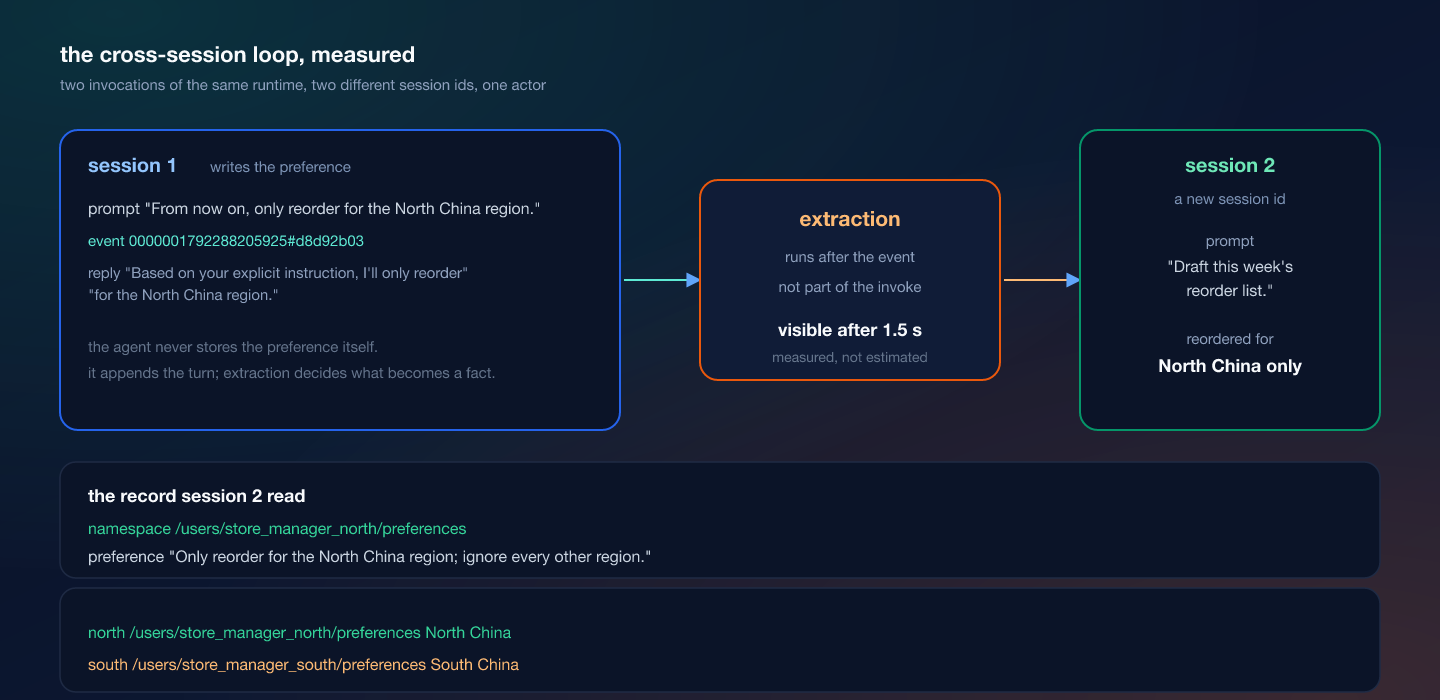
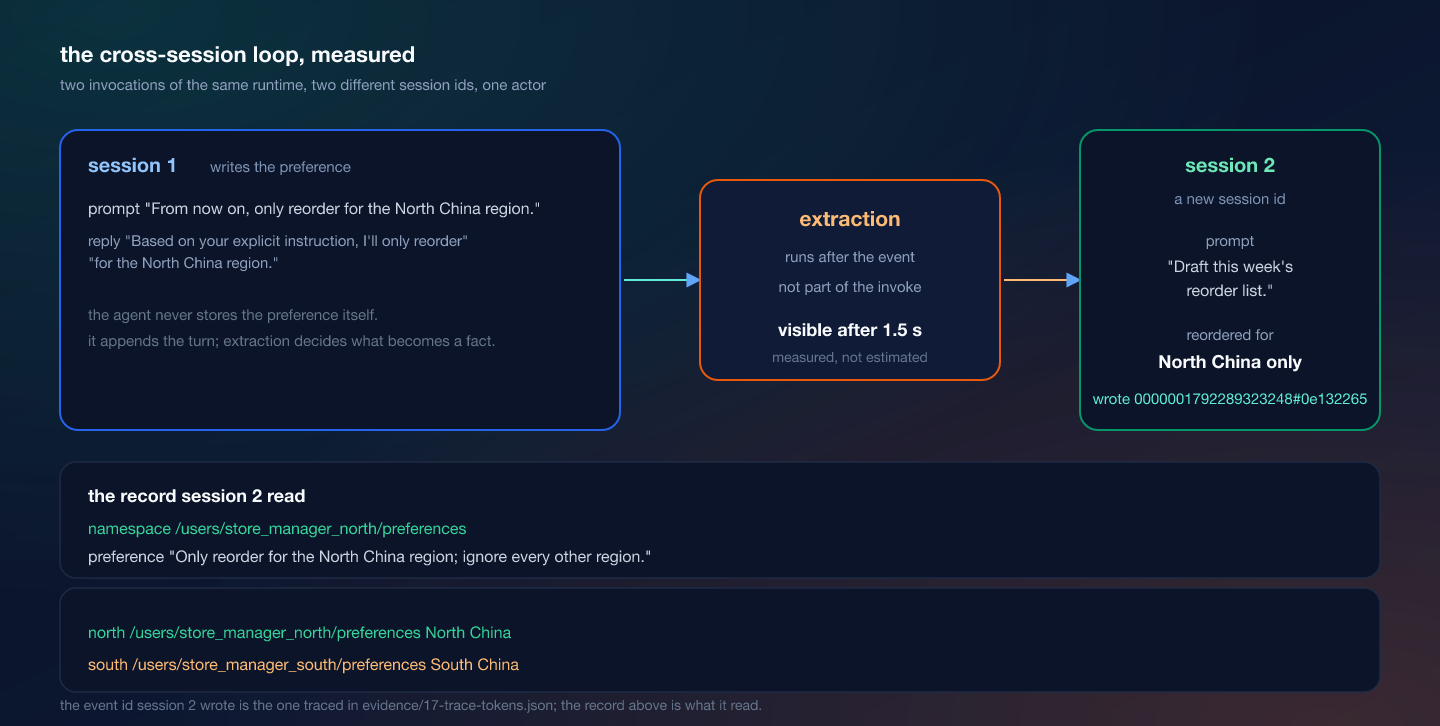
uc02: fix the figure event id, add the teardown evidence and finish the elision markers

diff --git a/articles/images/agentcore-memory-that-remembers/gen_figures.py b/articles/images/agentcore-memory-that-remembers/gen_figures.py
@@ -2,8 +2,8 @@
 """Generate every image for the uc02 article from the run captured on 2026-10-18.
 
 Every number drawn here comes from `usecases/02-memory/evidence/`. The terminal
-panels are the captured output with the account id redacted to 123456789012 and
-nothing else changed.
+panels are the captured output with the account id redacted to 123456789012, the
+bold markers the model emitted stripped, and a `...` wherever a line is cut.
 
     python3 gen_figures.py            # writes every .svg next to this file
     render.sh                         # svg -> png, see the comment at the bottom
@@ -171,18 +171,21 @@ CROSS_SESSION: list[tuple[str, str]] = [
     ("Based on your explicit instruction, I'll only reorder for the North China region.", W),
     ("The North China region needs reorders at three stores: Beijing Haidian (42 thermal", S),
     ("flasks), Tianjin Heping (17 insulated mugs), and Shijiazhuang Qiaoxi (8 lunch boxes).", S),
+    ("I followed your instruction to only reorder for North China and ignored all other regions. ...", S),
     ("", S),
     ("$ python3 run.py invoke --session 03fd411e-293b-4aa2-a219-bd996c7e3481-6b0df16e \\", S),
     ('    --prompt "Draft this week\'s reorder list."', S),
     ("Invoking agent...", D),
     ("I'll create the reorder list for the North China region as specified in your preferences.", W),
+    ("Let me check which stores need reordering.", S),
     ("Here's this week's reorder list for the North China region:", S),
-    ("Store: Beijing Haidian, SKU: SKU-1001, Reorder Quantity: 42 units", S),
-    ("Store: Tianjin Heping, SKU: SKU-1002, Reorder Quantity: 17 units", S),
-    ("Store: Shijiazhuang Qiaoxi, SKU: SKU-1003, Reorder Quantity: 8 units", S),
-    ("Note: I've applied your documented preference to only reorder for North China region.", G),
+    ("Store: Beijing Haidian, SKU: SKU-1001, Product: thermal flask, Reorder Quantity: 42 units", S),
+    ("Store: Tianjin Heping, SKU: SKU-1002, Product: insulated mug, Reorder Quantity: 17 units", S),
+    ("Store: Shijiazhuang Qiaoxi, SKU: SKU-1003, Product: lunch box, Reorder Quantity: 8 units", S),
+    ("Note: I've applied your documented preference to only reorder for North China region,", G),
+    ("ignoring all other regions.", G),
     ("", S),
-    ("Session: 03fd411e-293b-4aa2-a219-bd996c7e3481-6b0df16e", T),
+    ("Session: 03fd411e-293b-4aa2-a219-bd996c7e3481-6b0df16e  ...", T),
 ]
 
 
@@ -317,7 +320,7 @@ def figure_architecture() -> None:
 # --------------------------------------------------------------------------- #
 
 def figure_two_sessions() -> None:
-    w, h = 1440, 700
+    w, h = 1440, 726
     out = head(w, h, "A preference stated in session one is extracted into a record and read "
                      "back by session two, which never saw the first conversation.",
                glow_a=TEAL, glow_b=ORANGE)
@@ -332,11 +335,10 @@ def figure_two_sessions() -> None:
     label(out, 88, 172, "session 1", 20, "#93c5fd", weight="600")
     label(out, 210, 172, "writes the preference", 15, "#7c93b5")
     label(out, 88, 214, 'prompt  "From now on, only reorder for the North China region."', 16, "#cbd5e1")
-    label(out, 88, 246, "event   0000001792288205925#d8d92b03", 15, "#5eead4")
-    label(out, 88, 278, 'reply   "Based on your explicit instruction, I\'ll only reorder"', 15, "#8ea0bd")
-    label(out, 88, 300, '        "for the North China region."', 15, "#8ea0bd")
-    label(out, 88, 352, "the agent never stores the preference itself.", 15, "#64748b")
-    label(out, 88, 378, "it appends the turn; extraction decides what becomes a fact.", 15, "#64748b")
+    label(out, 88, 246, 'reply   "Based on your explicit instruction, I\'ll only reorder"', 15, "#8ea0bd")
+    label(out, 88, 268, '        "for the North China region."', 15, "#8ea0bd")
+    label(out, 88, 320, "the agent never stores the preference itself.", 15, "#64748b")
+    label(out, 88, 346, "it appends the turn; extraction decides what becomes a fact.", 15, "#64748b")
 
     arrow(out, 624, 280, 700, 280, "#5eead4")
 
@@ -359,8 +361,9 @@ def figure_two_sessions() -> None:
     label(out, 1230, 246, 'prompt', 15, "#8ea0bd", anchor="middle")
     label(out, 1230, 272, '"Draft this week\'s', 16, "#cbd5e1", anchor="middle")
     label(out, 1230, 296, 'reorder list."', 16, "#cbd5e1", anchor="middle")
-    label(out, 1230, 344, "reordered for", 15, "#8ea0bd", anchor="middle")
-    label(out, 1230, 372, "North China only", 18, "#f8fafc", anchor="middle", weight="600")
+    label(out, 1230, 340, "reordered for", 15, "#8ea0bd", anchor="middle")
+    label(out, 1230, 368, "North China only", 18, "#f8fafc", anchor="middle", weight="600")
+    label(out, 1230, 404, "wrote   0000001792289323248#0e132265", 15, "#5eead4", anchor="middle")
 
     # record row
     out.append('<rect x="60" y="462" width="1320" height="116" rx="16" fill="#0b1428" '
@@ -376,6 +379,10 @@ def figure_two_sessions() -> None:
     label(out, 88, 638, "north   /users/store_manager_north/preferences   North China",
           16, "#34d399")
     label(out, 88, 670, "south   /users/store_manager_south/preferences   South China", 16, "#fdba74")
+
+    label(out, 60, 710, "the event id session 2 wrote is the one traced in "
+                        "evidence/17-trace-tokens.json; the record above is what it read.",
+          14, "#64748b")
 
     out.append("</svg>")
     (HERE / "F2-two-sessions.svg").write_text("\n".join(out) + "\n", encoding="utf-8")
@@ -446,11 +453,13 @@ def main() -> None:
     panel("S1-deploy", "terminal - deploy", DEPLOY,
           "step timings from evidence/04-deploy.txt, outputs from evidence/07-deploy-clean.txt")
     panel("S2-cross-session-recall", "terminal - two sessions, one memory resource", CROSS_SESSION,
-          "evidence/09 and 10 · 19 s wall clock each, session ids shortened nowhere")
+          "evidence/09 and 10 · 19 s CLI wall clock each · every cut marked ... · "
+          "bold markers stripped · session ids verbatim")
     panel("S3-verify", "terminal - the three memory assertions", VERIFY,
           "captured from evidence/08-test-clean.txt, long lines wrapped")
     panel("S4-teardown", "terminal - teardown, and zero tagged resources left", TEARDOWN,
-          "captured from evidence/12-down-raw.txt, evidence/13 and evidence/14")
+          "Total Duration from evidence/18-down-deploy.txt · the rest from "
+          "evidence/12-down-raw.txt, evidence/13 and evidence/14")
     figure_architecture()
     figure_two_sessions()
     cover(1200, 675, "cover")

diff --git a/articles/agentcore-memory-that-remembers.md b/articles/agentcore-memory-that-remembers.md
@@ -89,6 +89,7 @@ The agent itself never stores a preference. It appends the turn and asks a quest
 
 ```python
 def remember(self, actor, session_id, turns):
+    # ... the real one wraps this in try/except and returns None on failure
     event = self.client.create_event(
         memory_id=self.memory_id, actor_id=actor,
         session_id=session_id, messages=turns)
@@ -109,7 +110,7 @@ def recall(self, actor, query):
     return found
 ```
 
-Writing the event is also what starts extraction, which is why the second session can find a sentence the first session said. Extraction is not part of the invoke: the reply returned in 19 seconds and the records arrived later.
+Writing the event is also what starts extraction, which is why the second session can find a sentence the first session said. Extraction is not part of the invoke: the CLI returned in 19 seconds (12,117 ms of it the model call), and the records arrived later.
 
 Retrieval happens before the model is called, because the records become part of the system prompt:
 
@@ -118,7 +119,7 @@ records = store.recall(actor, prompt) if store else []
 agent = Agent(
     model=load_model(),
     system_prompt=f"{SYSTEM_PROMPT}\n\nWhat you remember about this manager:\n{render(records)}",
-    conversation_manager=NullConversationManager(),
+    # ... tools=list(TOOLS) and conversation_manager=NullConversationManager() too
 )
 ```
 
@@ -186,6 +187,8 @@ Outputs:
 
 ![Terminal capture: the deploy step timings, the memory id and the runtime ARN](/images/agentcore-memory-that-remembers/S1-deploy.png)
 
+Step timings are the first deploy's, the Outputs a minutes-later re-deploy of the same stack.
+
 Two sessions, two different session ids. The first only states a preference:
 
 ```bash
@@ -248,7 +251,7 @@ memory
 4 passed, 0 failed
 ```
 
-The 1.5 seconds needs explaining: that preference had already been extracted by an earlier run against the same resource, so the read found it immediately. The episode was new, and took 959.
+The 1.5 seconds needs explaining: that preference had already been extracted by an earlier run against the same resource. The episode was new, and took 959.
 
 ![Terminal capture: the three memory assertions and the independence check](/images/agentcore-memory-that-remembers/S3-verify.png)
 
@@ -289,9 +292,9 @@ The measured loop, one actor, two sessions:
 
 ![The cross-session loop: an event, its extracted record, and a second session reading the record](/images/agentcore-memory-that-remembers/F2-two-sessions.png)
 
-The two actors wrote to `/users/store_manager_north/preferences` and `/users/store_manager_south/preferences`; a semantic query for "which region does this store manager reorder for" returned North China to one and South China to the other, and asking the model the same question produced South China for the southern manager. There is no filter to get wrong, because the actor id is part of the key.
+The two actors wrote to `/users/store_manager_north/preferences` and `/users/store_manager_south/preferences`; a semantic query for "which region does this store manager reorder for" returned North China to one and South China to the other, and asking the model "Draft this week's reorder list." produced South China for the southern manager. There is no filter to get wrong, because the actor id is part of the key.
 
-The third assertion is the one that taught me something. Episodic extraction is slow: the episodes in this resource were written 15 minutes 11 seconds to 15 minutes 14 seconds after the event timestamp they came from. It is not a broken strategy, it is a slower queue, and a 300-second deadline can only ever fail against it.
+The third assertion taught me something. Episodic extraction is slow: these episodes were written 15 minutes 11 seconds to 15 minutes 14 seconds after the events they came from. It is not a broken strategy, it is a slower queue, and a 300-second deadline can only fail against it.
 
 A prefix read of `/episodes/store_manager_north/` returns two kinds of record: a `BASE` episode filed under the session that produced it, and a `REFLECTION` written one level up, over all of them. That is why the namespace template has a `{sessionId}` and the reflection template does not:
 
